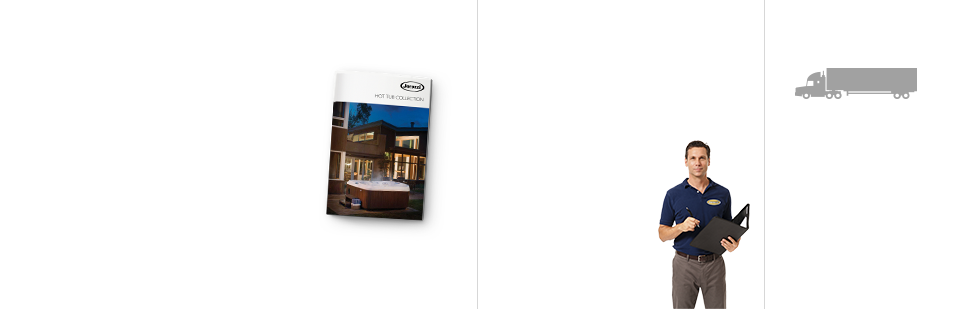
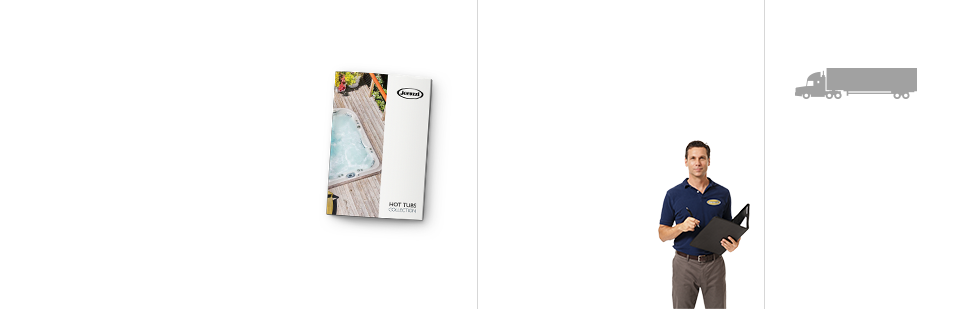
image update, bullets update

Changed region(s): [[0.3438, 0.233, 0.4688, 0.7282]]

diff --git a/block-cta_forms.php b/block-cta_forms.php
@@ -14,9 +14,9 @@ $truckloadObj = json_decode($json);
 	<div class="bbg-container">
 		<div id="bbg-ctas-block1">
 			<h3><strong>FREE</strong> 25 Page Brochure</h3>
-			<ul>
-				<li>Compare models side-by-side</li>
-				<li>Learn about features &amp; options</li>
+			<ul class="bullets">
+				<li>Explore sizes, features &amp; options</li>
+				<li>Learn about the power of hydromassage</li>
 			</ul>
 			<?php 
 			if ( jht_my_server() == 'local' ) :
